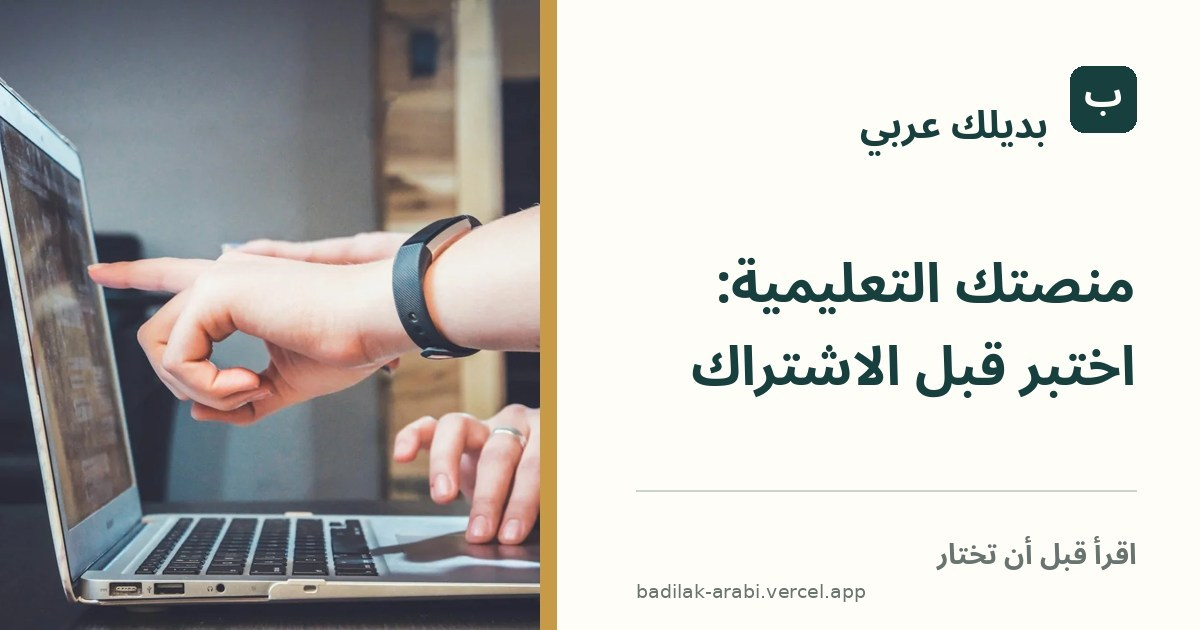
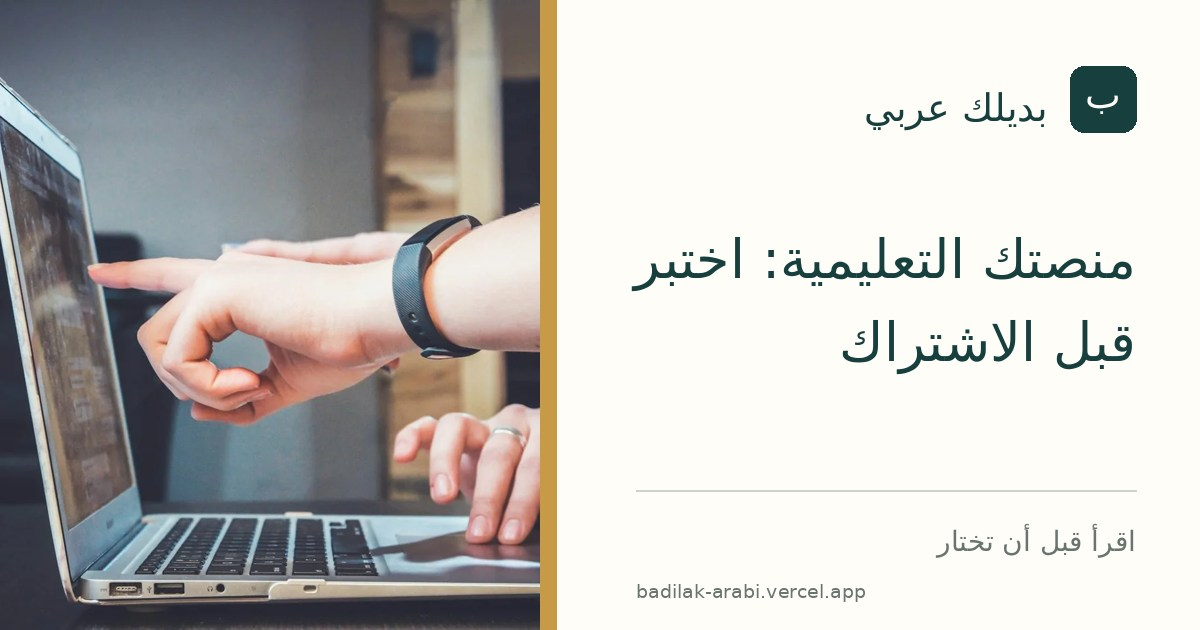
Redraw one share image in the shared typeface
create-online-academy-social.jpg had been produced with a heavier typeface
than the other 20 share images. Redraw it from its stored photo and
socialTitle with the shared layout, as the owner approved. Headline text
is unchanged; only its line break follows the shared rule.

Add --social-only --only SLUG for redrawing named share images without
touching covers, thumbnails or article copy. The drawing code moved into
render_social() unchanged: a full build before and after the refactor is
byte-identical, and a fresh render reproduces the other 20 committed
share images byte for byte.

Claude-Session: https://claude.ai/code/session_01VF9eawVjkamNKzooCisfWY

diff --git a/guides/create-online-academy.html b/guides/create-online-academy.html
@@ -6,14 +6,14 @@
 <meta property="og:title" content="منصتك التعليمية: اختبر قبل الاشتراك">
 <meta property="og:description" content="قبل نقل دروسك وطلابك إلى منصة تعليمية، قارن إدارة الدروس والاختبارات والدفع وتصدير البيانات والصلاحيات بتجربة صغيرة.">
 <meta property="og:url" content="https://badilak-arabi.vercel.app/guides/create-online-academy">
-<meta property="og:image" content="https://badilak-arabi.vercel.app/images/articles/create-online-academy-social.jpg?v=1377ce222a">
+<meta property="og:image" content="https://badilak-arabi.vercel.app/images/articles/create-online-academy-social.jpg?v=7d3c244d67">
 <meta property="og:image:width" content="1200">
 <meta property="og:image:height" content="630">
 <meta property="og:image:alt" content="شرح باستخدام حاسوب في جلسة تعلّم">
 <meta name="twitter:card" content="summary_large_image">
 <meta name="twitter:title" content="منصتك التعليمية: اختبر قبل الاشتراك">
 <meta name="twitter:description" content="قبل نقل دروسك وطلابك إلى منصة تعليمية، قارن إدارة الدروس والاختبارات والدفع وتصدير البيانات والصلاحيات بتجربة صغيرة.">
-<meta name="twitter:image" content="https://badilak-arabi.vercel.app/images/articles/create-online-academy-social.jpg?v=1377ce222a"><link rel="preload" href="/fonts/google-6c9f4bab97d6.woff2" as="font" type="font/woff2" crossorigin>
+<meta name="twitter:image" content="https://badilak-arabi.vercel.app/images/articles/create-online-academy-social.jpg?v=7d3c244d67"><link rel="preload" href="/fonts/google-6c9f4bab97d6.woff2" as="font" type="font/woff2" crossorigin>
 <link rel="preload" href="/fonts/google-41f1e64ff8db.woff2" as="font" type="font/woff2" crossorigin>
 <link rel="preload" href="/fonts/google-bf43e79904fc.woff2" as="font" type="font/woff2" crossorigin>
 <link rel="preload" href="/fonts/almarai-700.woff2" as="font" type="font/woff2" crossorigin>
@@ -42,7 +42,7 @@
 .toplinks a{min-height:34px;display:inline-flex;align-items:center;padding-block:5px}
 .jumpbar a,.source-card,.next-actions a,.related a{min-height:34px}
 @media(max-width:650px){.hero{padding:36px 0 18px!important}.human-question{margin:18px 0 22px!important}}
-</style><meta property="og:image:secure_url" content="https://badilak-arabi.vercel.app/images/articles/create-online-academy-social.jpg?v=1377ce222a">
+</style><meta property="og:image:secure_url" content="https://badilak-arabi.vercel.app/images/articles/create-online-academy-social.jpg?v=7d3c244d67">
 <meta property="og:image:type" content="image/jpeg">
 <meta name="twitter:image:alt" content="شرح باستخدام حاسوب في جلسة تعلّم">
 <link rel="stylesheet" href="/css/article-media.css">

diff --git a/scripts/build-article-media.py b/scripts/build-article-media.py
@@ -2,6 +2,7 @@
 """Build licensed article covers and social metadata from data/article-media.json.
 Run: python scripts/build-article-media.py (requires Pillow with RAQM).
 Address label only: python scripts/build-article-media.py --label-only [--only SLUG ...]
+Whole social image for named articles: python scripts/build-article-media.py --social-only --only SLUG [...]
 """
 from pathlib import Path
 import argparse, hashlib, html, io, json, re
@@ -65,6 +66,63 @@ def build_thumbnails():
     hub_path.write_text(hub)
     print(f'Built {len(cards)} reading-list thumbnails; full article covers unchanged.')
 
+def load_photo(item):
+    if item['photo']:
+        photo_path = (ROOT/item['photo'].lstrip('/')).resolve()
+        if not photo_path.is_relative_to(ROOT/'images'): raise ValueError('Photo must be inside images/')
+        photo = Image.open(photo_path).convert('RGB')
+    else:
+        # An automatic, explicit text fallback when a new article has no photo yet.
+        photo = Image.new('RGB', (1200,675), '#e3ece7')
+    focal = item.get('focalPoint', [0.5,0.5])
+    if len(focal)!=2 or any(not isinstance(v,(int,float)) or not 0<=v<=1 for v in focal): raise ValueError('Invalid focalPoint')
+    return photo, focal
+
+def render_social(photo, focal, title, font_path, slug):
+    social = Image.new('RGB', (1200,630), '#fffdf8')
+    social.paste(ImageOps.fit(photo, (540,630), centering=tuple(focal)), (0,0))
+    draw = ImageDraw.Draw(social)
+    draw.rectangle((540,0,556,630), fill='#c79a47')
+    draw.rounded_rectangle((1070,66,1136,132), radius=14, fill='#173f3d')
+    small = ImageFont.truetype(font_path, 28)
+    brand = ImageFont.truetype(font_path, 38)
+    draw.text((1103,94), 'ب', anchor='mm', font=brand, fill='#fffdf8', direction='rtl')
+    draw.text((1048,85), 'بديلك عربي', font=brand, fill='#173f3d', anchor='ra', direction='rtl')
+    size = 54
+    while True:
+        font = ImageFont.truetype(font_path, size)
+        lines = text_lines(draw, title, font, 540)
+        if len(lines)<=3 or size<=34: break
+        size -= 2
+    if len(lines)>3: raise ValueError('Social headline does not fit: '+slug)
+    line_height = int(size*1.55); y = 310 - len(lines)*line_height/2
+    for line in lines:
+        draw.text((1136,y), line, anchor='ra', font=font, fill='#173f3d', direction='rtl'); y+=line_height
+    draw.line((636,490,1136,490), fill='#c9d4ce', width=2)
+    draw.text((1136,525), 'اقرأ قبل أن تختار', anchor='ra', font=small, fill='#68746f', direction='rtl')
+    draw.text((636,580), site_host(), font=ImageFont.truetype(font_path,19), fill='#68746f')
+    return social
+
+def refresh_social_version(slug):
+    """Point the guide's share-image tags at the file's new content hash; nothing else in the page changes."""
+    version = hashlib.sha256((ROOT/'images/articles'/f'{slug}-social.jpg').read_bytes()).hexdigest()[:10]
+    path = ROOT/'guides'/f'{slug}.html'
+    page, count = re.subn(rf'(/images/articles/{slug}-social\.jpg\?v=)[0-9a-f]{{10}}', lambda m: m.group(1)+version, path.read_text())
+    if not count: raise ValueError('No versioned social image reference: '+slug)
+    path.write_text(page)
+
+def rebuild_social(font_path, only):
+    """Redraw whole social images for the named articles from their stored photo and title; covers and copy stay untouched."""
+    articles = json.loads((ROOT/'data/article-media.json').read_text())['articles']
+    if not features.check('raqm'): raise RuntimeError('Pillow must support RAQM for Arabic text.')
+    for slug in only:
+        if not re.fullmatch('[a-z0-9-]+', slug) or slug not in articles: raise ValueError('Unknown article slug: '+slug)
+        item = articles[slug]; title = item['socialTitle'].strip()
+        photo, focal = load_photo(item)
+        save_image(render_social(photo, focal, title, font_path, slug), ROOT/'images/articles'/f'{slug}-social.jpg', 'JPEG', quality=89, optimize=True)
+        refresh_social_version(slug)
+    print(f'Rebuilt {len(only)} social image(s); covers, thumbnails and article copy unchanged.')
+
 def relabel(font_path, only=None):
     """Redraw only the address label on existing social images; artwork, covers and copy stay untouched."""
     host = site_host(); font = ImageFont.truetype(font_path, 19)
@@ -80,11 +138,7 @@ def relabel(font_path, only=None):
             draw.text((636,580), host, font=font, fill='#68746f')
             # Reuse the file's own JPEG tables so the untouched artwork is not recompressed at a new quality.
             save_image(social, social_path, 'JPEG', quality='keep', subsampling='keep', optimize=True)
-        version = hashlib.sha256(social_path.read_bytes()).hexdigest()[:10]
-        path = ROOT/'guides'/f'{slug}.html'
-        page, count = re.subn(rf'(/images/articles/{slug}-social\.jpg\?v=)[0-9a-f]{{10}}', lambda m: m.group(1)+version, path.read_text())
-        if not count: raise ValueError('No versioned social image reference: '+slug)
-        path.write_text(page)
+        refresh_social_version(slug)
     print(f'Relabelled {len(slugs)} social image(s) with {host}; covers, headlines and article copy unchanged.')
 
 def build(font_path):
@@ -98,40 +152,11 @@ def build(font_path):
         page = path.read_text()
         title = item['socialTitle'].strip(); alt = item['alt'].strip()
         if not title or not alt or len(title)>100: raise ValueError('Missing/long title or image description: '+slug)
-        if item['photo']:
-            photo_path = (ROOT/item['photo'].lstrip('/')).resolve()
-            if not photo_path.is_relative_to(ROOT/'images'): raise ValueError('Photo must be inside images/')
-            photo = Image.open(photo_path).convert('RGB')
-        else:
-            # An automatic, explicit text fallback when a new article has no photo yet.
-            photo = Image.new('RGB', (1200,675), '#e3ece7')
-        focal = item.get('focalPoint', [0.5,0.5])
-        if len(focal)!=2 or any(not isinstance(v,(int,float)) or not 0<=v<=1 for v in focal): raise ValueError('Invalid focalPoint')
+        photo, focal = load_photo(item)
         directory = ROOT/'images/articles'; directory.mkdir(exist_ok=True, parents=True)
         cover = ImageOps.fit(photo, (1200,675), centering=tuple(focal))
         save_image(cover, directory/f'{slug}-cover.webp', 'WEBP', quality=83)
-        social = Image.new('RGB', (1200,630), '#fffdf8')
-        social.paste(ImageOps.fit(photo, (540,630), centering=tuple(focal)), (0,0))
-        draw = ImageDraw.Draw(social)
-        draw.rectangle((540,0,556,630), fill='#c79a47')
-        draw.rounded_rectangle((1070,66,1136,132), radius=14, fill='#173f3d')
-        small = ImageFont.truetype(font_path, 28)
-        brand = ImageFont.truetype(font_path, 38)
-        draw.text((1103,94), 'ب', anchor='mm', font=brand, fill='#fffdf8', direction='rtl')
-        draw.text((1048,85), 'بديلك عربي', font=brand, fill='#173f3d', anchor='ra', direction='rtl')
-        size = 54
-        while True:
-            font = ImageFont.truetype(font_path, size)
-            lines = text_lines(draw, title, font, 540)
-            if len(lines)<=3 or size<=34: break
-            size -= 2
-        if len(lines)>3: raise ValueError('Social headline does not fit: '+slug)
-        line_height = int(size*1.55); y = 310 - len(lines)*line_height/2
-        for line in lines:
-            draw.text((1136,y), line, anchor='ra', font=font, fill='#173f3d', direction='rtl'); y+=line_height
-        draw.line((636,490,1136,490), fill='#c9d4ce', width=2)
-        draw.text((1136,525), 'اقرأ قبل أن تختار', anchor='ra', font=small, fill='#68746f', direction='rtl')
-        draw.text((636,580), site_host(), font=ImageFont.truetype(font_path,19), fill='#68746f')
+        social = render_social(photo, focal, title, font_path, slug)
         social_path = directory/f'{slug}-social.jpg'; save_image(social, social_path, 'JPEG', quality=89, optimize=True)
         version = hashlib.sha256(social_path.read_bytes()).hexdigest()[:10]
         social_url = f'{BASE}/images/articles/{slug}-social.jpg?v={version}'
@@ -179,9 +204,14 @@ if __name__=='__main__':
     parser=argparse.ArgumentParser();parser.add_argument('--font',default='/usr/share/fonts/truetype/dejavu/DejaVuSans.ttf')
     parser.add_argument('--thumbnails-only', action='store_true')
     parser.add_argument('--label-only', action='store_true')
+    parser.add_argument('--social-only', action='store_true')
     parser.add_argument('--only', nargs='+', metavar='SLUG')
     args=parser.parse_args()
+    if args.label_only and args.social_only: parser.error('Choose one of --label-only and --social-only')
     if args.label_only: relabel(args.font, args.only)
-    elif args.only: parser.error('--only is for --label-only')
+    elif args.social_only:
+        if not args.only: parser.error('--social-only needs --only SLUG so no image is redrawn by accident')
+        rebuild_social(args.font, args.only)
+    elif args.only: parser.error('--only is for --label-only or --social-only')
     elif args.thumbnails_only: build_thumbnails()
     else: build(args.font)

diff --git a/docs/DOMAIN-READINESS-20261115.md b/docs/DOMAIN-READINESS-20261115.md
@@ -30,15 +30,22 @@ The owner approved correcting the address drawn on article share images, includi
   share-image tags in that guide's head. Covers, headlines, thumbnails, figures and article copy are
   not regenerated. The label text now comes from `site.config.json` (also in the full build), so
   the drawn address follows the same single setting as every page URL.
-- `images/articles/create-online-academy-social.jpg`: the row of empty glyph boxes is replaced by
-  the readable current address, in the same font and position as the other 20 images. The rest of
-  that image (its heavier headline typeface included) is unchanged in design.
+- `images/articles/create-online-academy-social.jpg`: first the row of empty glyph boxes was
+  replaced by the readable current address. Then, with the owner's approval, the whole image was
+  redrawn from its stored photo and `socialTitle` in the same typeface as the other 20 (it had
+  been produced with a heavier one). The headline text is unchanged; it now breaks after
+  «اختبر» instead of after the colon, as the shared layout rule decides.
+- `scripts/build-article-media.py`: `--social-only --only SLUG [...]` redraws whole share images
+  for named articles only. The drawing code moved into `render_social()` unchanged: a full build
+  with the previous script and with this one gives byte-identical files, and a fresh render here
+  reproduces the other 20 committed share images byte for byte.
 - `guides/create-online-academy.html`: `?v=` on `og:image`, `og:image:secure_url`, `twitter:image`
   only (3 lines). Body unchanged.
 
 The other 20 images were not touched: they already show the current address correctly and change
-only at the domain switch. The file is re-saved with its own JPEG tables; outside the label area the
-largest per-pixel difference measured was 7 of 255, on under 0.5% of pixels.
+only at the domain switch. In `--label-only` mode a file is re-saved with its own JPEG tables;
+in the rehearsal on one image the largest per-pixel difference outside the label area was 7 of 255,
+on under 0.5% of pixels.
 
 ## Verified
 
@@ -76,7 +83,5 @@ changed, build and `audit-prelaunch` pass.
 
 ## Known leftovers, owner decision
 
-- `create-online-academy-social.jpg` uses a heavier typeface for its headline, brand and tagline
-  than the other 20 share images. Reported only; not changed.
 - Opening indexing, enabling feedback, adding analytics or a pixel, and any paid plan remain
   separate decisions.
